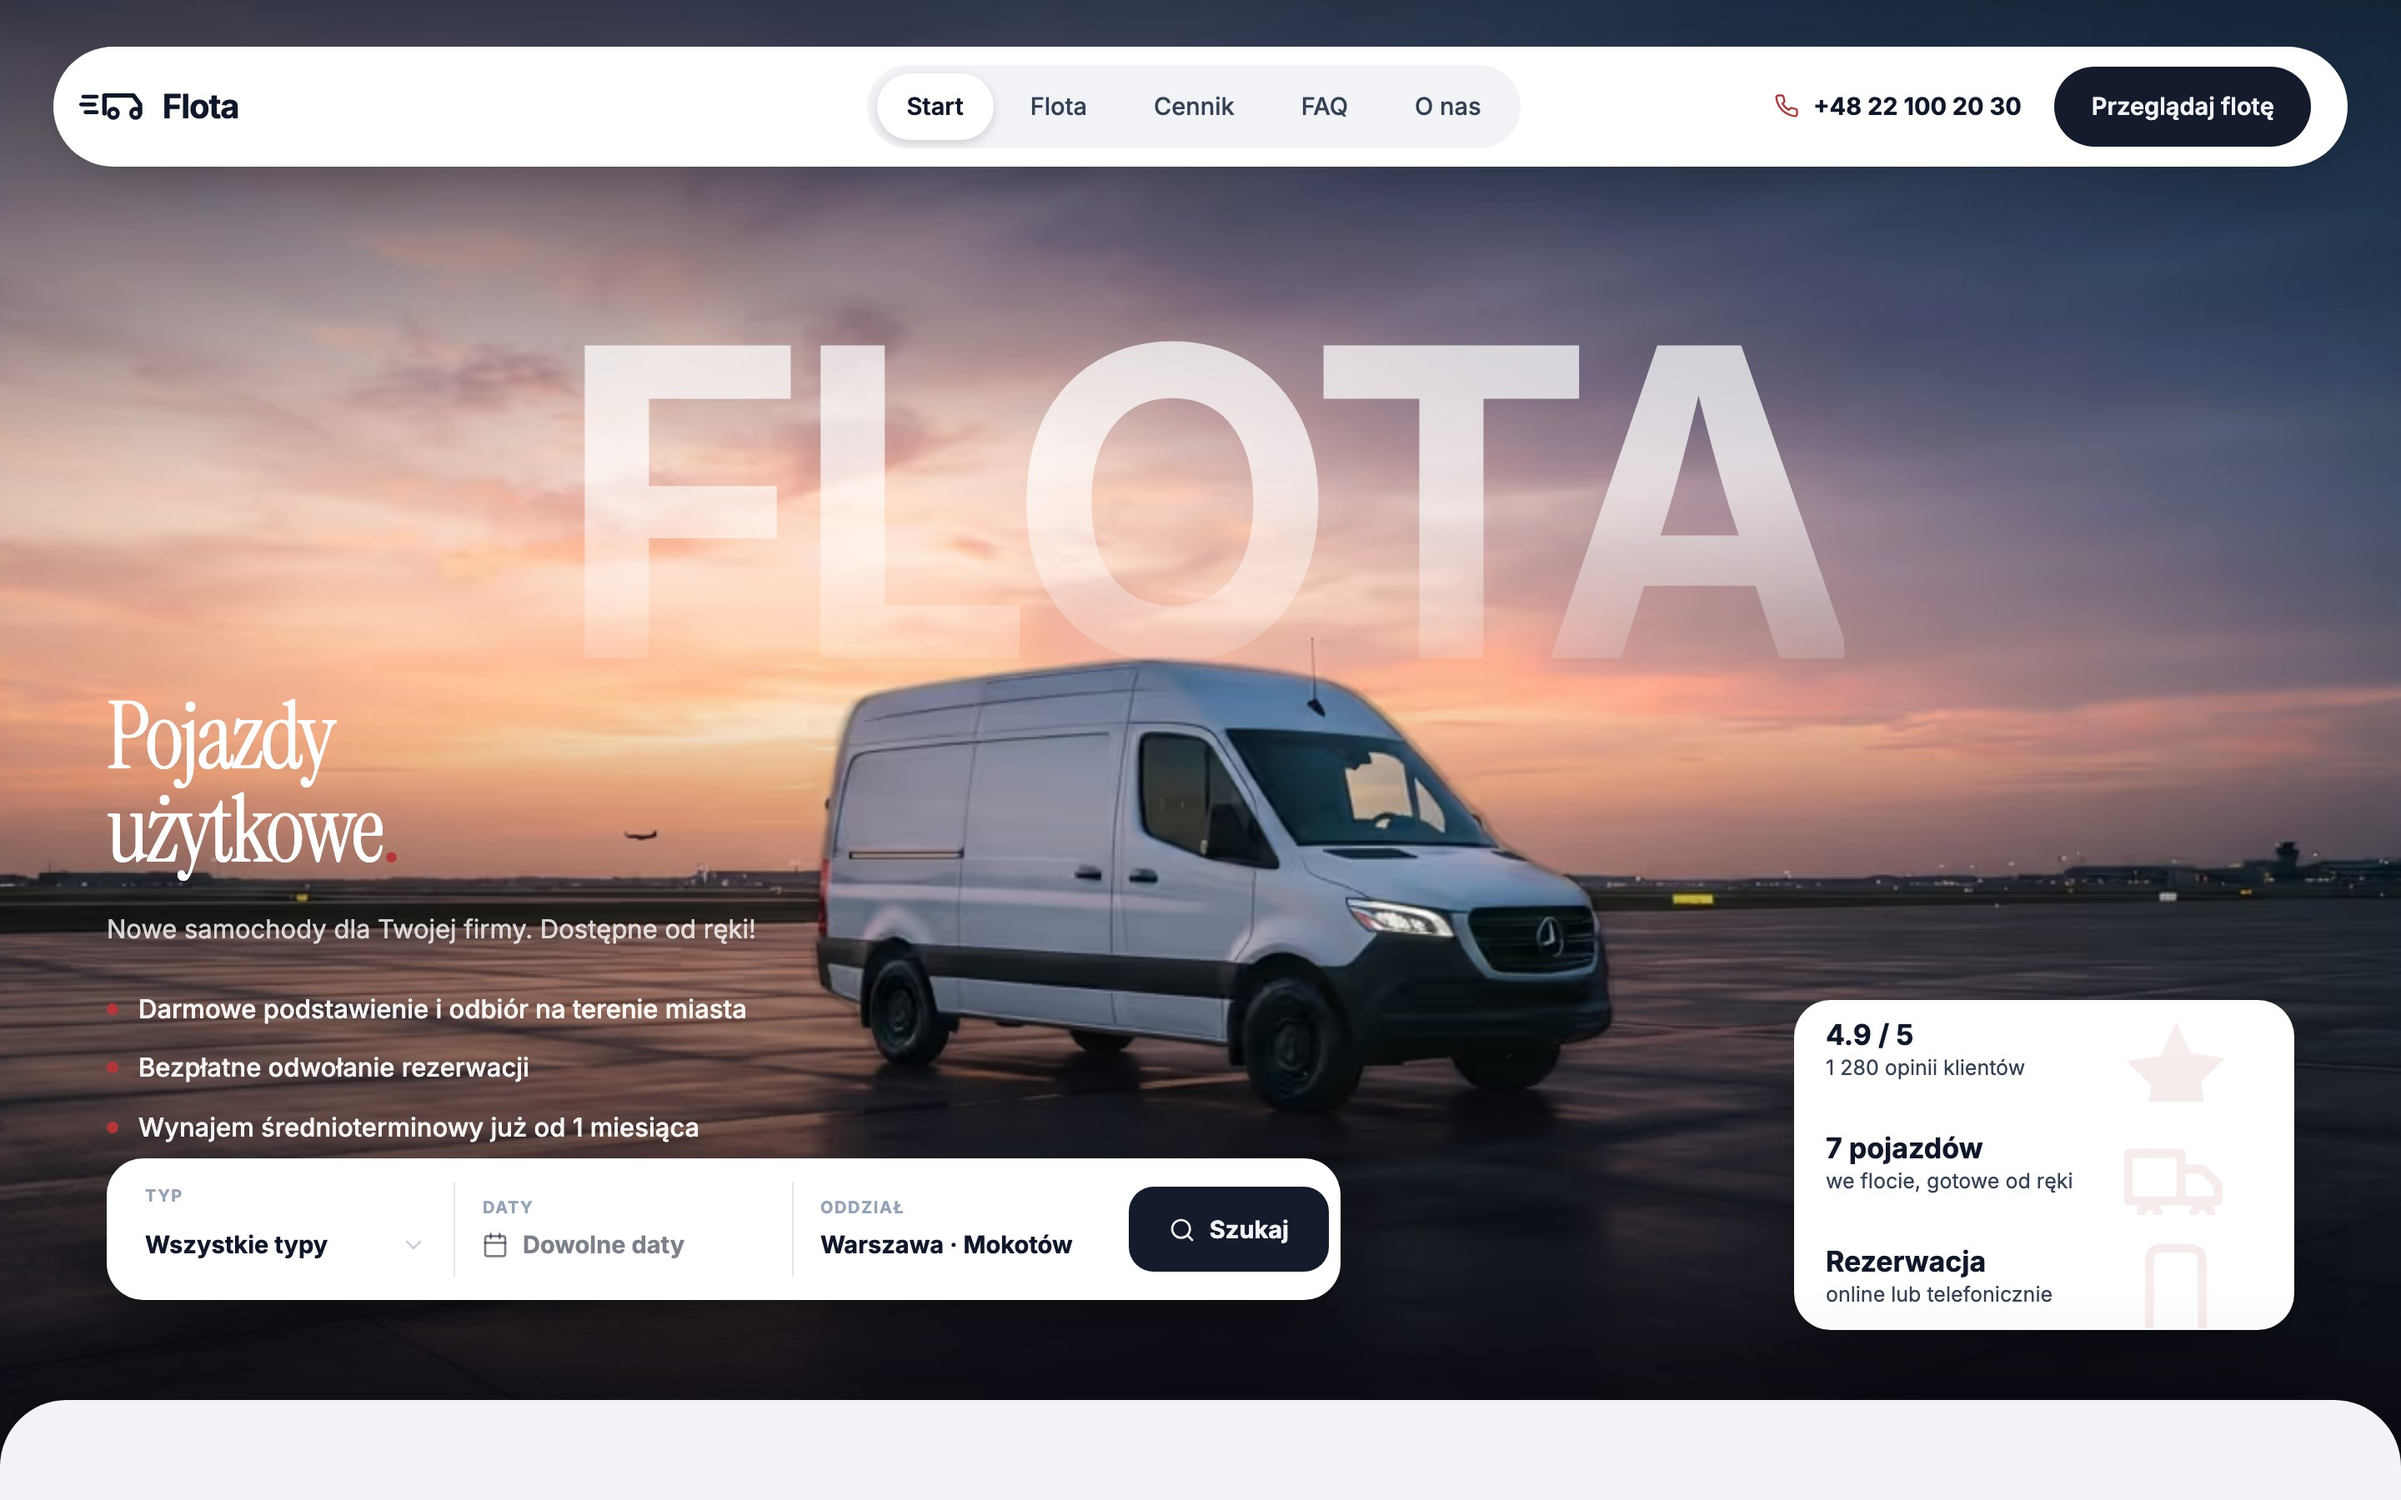
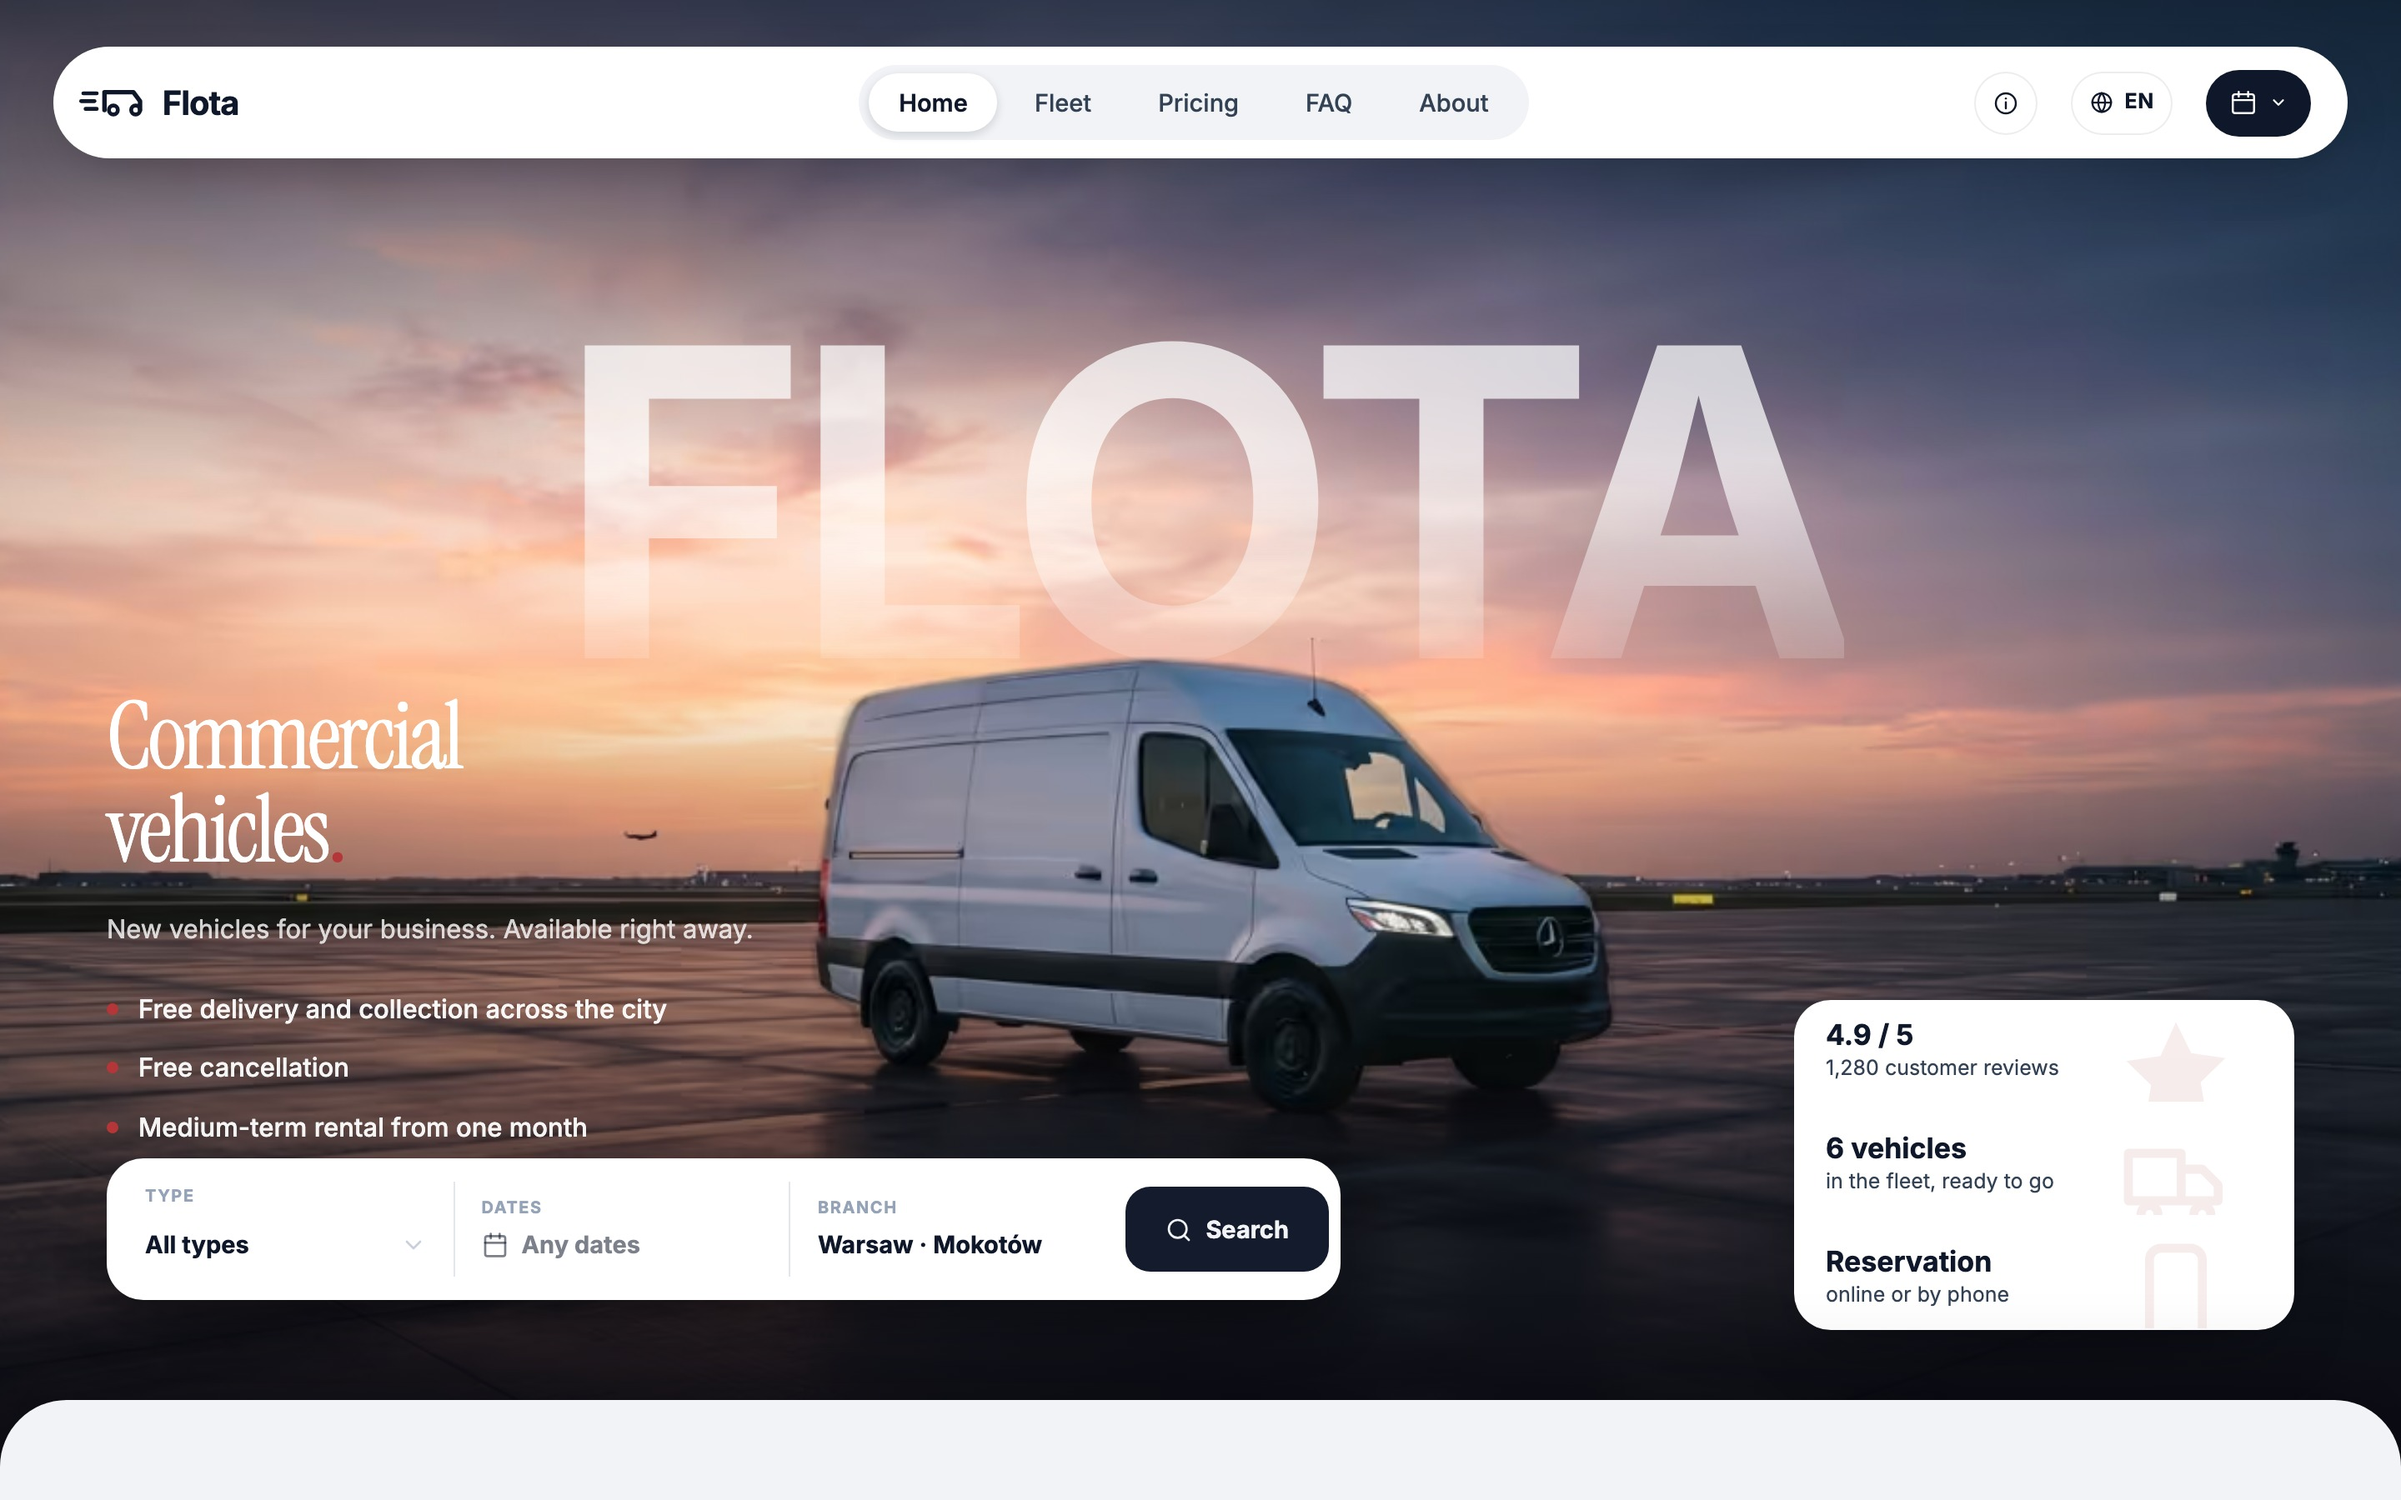
docs: recapture the README screenshots in English (#46)
The app ships English as its default locale since english-localization, but
every screenshot in the README was still Polish. All 18 live-app shots are
recaptured against a local run of main, at the sizes they had before.

Two of them are more than a language swap:

- The return comparison was a design mockup. The real screen renders the same
  layout, so it is now a live capture of /dashboard/returns.
- The fleet calendar sat on an empty month and showed leftover test rows. It is
  now on July 2026, where the seeded rentals are, with both booking states in
  frame.

The handover capture stays a design reference. Reaching that screen needs a
pickup dated today, and the seed has none.

README text that described the Polish UI follows the images: ACTIVE / INVITED
instead of AKTYWNY / ZAPROSZONY, "pickup -> return" instead of "wydanie ->
zwrot", "Dashboard cockpit" instead of "Pulpit cockpit". The "single locale, on
purpose" note is replaced by how the locale is actually resolved, and the
feature map gains a Localization row.

The seed named the demo profile "Konto Demo", which reads oddly on an English
roster. It is "Demo Account" now.

Claude-Session: https://claude.ai/code/session_0132wYuz1G8F7MTowTSxNU6L

diff --git a/README.md b/README.md
@@ -38,7 +38,7 @@ with match highlighting and full keyboard navigation. Desktop dropdown, mobile f
 ![Global search](docs/screenshots/search-global.jpg)
 
 **Team** — the admin roster: invite, re-send an invite, reset a password, deactivate.
-`AKTYWNY` vs `ZAPROSZONY` is derived from whether a password was ever set through one of
+`ACTIVE` vs `INVITED` is derived from whether a password was ever set through one of
 our own routes.
 
 ![Team roster](docs/screenshots/staff-roster.jpg)
@@ -98,17 +98,15 @@ Browse and reserve on mobile:
 
 ### Protocols — handover & return
 
-> _The two images below are design references. Every other screenshot in this README is a
-> live capture of the running app._
-
 **Return comparison** — the return protocol auto-diffs against the pickup baseline:
 distance driven, fuel change, and new vs. existing damage, rolled up into a
-_wydanie → zwrot_ summary.
+_pickup → return_ summary.
 
 ![Return protocol comparison](docs/screenshots/return-comparison.jpg)
 
 **Handover capture** happens on mobile, on the lot — odometer, fuel, six photo slots, and
-damage notes.
+damage notes. The image below is a design reference; every other screenshot in this README
+is a live capture of the running app.
 
 <p align="center"><img src="docs/screenshots/pickup-protocol.jpg" alt="Handover protocol (mobile)" width="360"></p>
 
@@ -133,8 +131,9 @@ server, and is **e-mailed** to the customer with delivery status tracked. The re
 protocol is compared against the pickup baseline, so the record of _new_ damage is
 unambiguous.
 
-The product is Polish-language (`pl-PL`), with timestamps pinned to `Europe/Warsaw` for
-SSR-stable rendering.
+The product ships in two languages, English and Polish. English is the default; the choice
+is a cookie, and a signed-in staffer also gets it stored on their profile. Timestamps stay
+pinned to `Europe/Warsaw` — the company's own zone — for SSR-stable rendering.
 
 ## Feature map
 
@@ -144,7 +143,8 @@ SSR-stable rendering.
 | **Account provisioning** | Admin invites by e-mail, idempotent tokenized links, invite re-send, owned password-set signal, link-conflict handling              |
 | **Search**               | Header ⌘K omnisearch across reservations / returns / vehicles; grouped results, keyboard nav, trigram-indexed                       |
 | **Reservations**         | Public request → staff approve/reject → e-mail; **manual** staff-created confirmed bookings; atomic overlap protection              |
-| **Dispatch**             | Pulpit cockpit (KPIs, today's schedule, decision rail), pickups & returns worklists, overdue flagging, fleet calendar               |
+| **Dispatch**             | Dashboard cockpit (KPIs, today's schedule, decision rail), pickups & returns worklists, overdue flagging, fleet calendar            |
+| **Localization**         | English + Polish across the UI, transactional e-mails and protocol PDFs; locale resolved server-side (cookie → profile → default)   |
 | **Protocols**            | Handover + return capture, photos (client-side HEIC decode), damage records, server-rendered PDF, tracked e-mail delivery           |
 | **Fleet**                | Vehicle CRUD, activation, pricing fields feeding both the public catalog and the pricing page                                       |
 | **Public site**          | Landing, catalog, vehicle detail with availability, tokenized status page, About / FAQ / Pricing                                    |
@@ -185,8 +185,11 @@ SSR-stable rendering.
 - **The protocol pipeline.** Pickup / return capture → photos (client-side HEIC decode) +
   damage records persisted in Supabase → PDF rendered with `pdf-lib` → delivered by Resend →
   outcome recorded in `email_deliveries`. Return protocols diff against the pickup baseline.
-- **Single locale, on purpose.** `pl-PL` copy and `Europe/Warsaw` timestamps are pinned so
-  SSR output and client hydration agree.
+- **Two locales, resolved on the server.** The locale comes from a cookie, then
+  `profiles.locale`, then the `en` default — decided by a pure function, so every page is
+  rendered in one language before it leaves the Worker. The switch is a form POST, not a
+  `document.cookie` write, so markup and hydration can never disagree. `Europe/Warsaw`
+  timestamps are pinned for the same reason.
 
 ### A closer look: the invite journey
 
